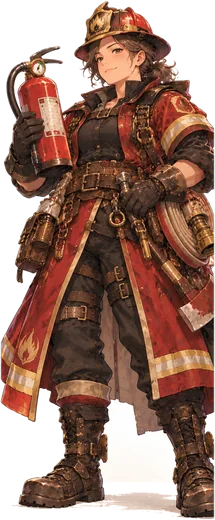
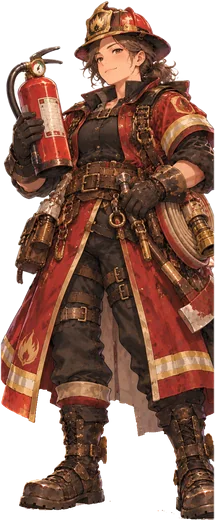
V3.1：穿牆修正（snapFree）、更新 cap.webp、HANDOFF 換成 V3.1
- 卡住時改為 snapFree() 移到最近可走位置，進入場景前也先檢查
- 新增 tools/wall_test.py：舊版 33 點穿牆 24 個，新版 0 個
- cap.webp 更新，RATIO cap=0.414
- 階段 B 資料表草稿（supabase/drafts，尚未套用）

diff --git a/js/game.js b/js/game.js
@@ -167,6 +167,7 @@ function buildScene(){
   if(S.forageDay!==S.day)genForage();
   (S.forage[S.scene]||[]).forEach(f=>{const e=sprite('','',f.x,f.y+14,Math.round(H*.34),1);e.querySelector('img').src=A[PICK[f.t].icon];e.querySelector('img').style.filter='drop-shadow(0 0 6px rgba(255,240,170,.95))';forageEls.push(e);});
   (SIGNS[S.scene]||[]).forEach(g=>{const e=document.createElement('div');e.className='ent signpost';e.style.transform=`translate(${g.x}px,${g.y}px) translate(-50%,-50%)`;e.textContent=g.t();plane.appendChild(e);});
+  snapFree();
   heroEl=sprite('shadow','',S.pos.x,S.pos.y,H,RATIO.hero);heroEl.id='hero';heroImg=heroEl.querySelector('img');heroImg.src=A.hero;
   refresh();fit();
 }
@@ -753,6 +754,8 @@ function free(x,y){const H=sc().heroH,r=H*.12;
   if(!(walkable(x,y)&&walkable(x-r,y)&&walkable(x+r,y)&&walkable(x,y-r*.5)&&walkable(x,y+r*.5)))return false;
   for(const [bx,by,rx] of blockers()){if(((x-bx)/rx)**2+((y-by)/(rx*.5))**2<1)return false;}
   return true;}
+/* 目前位置不可走時，螺旋搜尋最近的可走位置；找不到就回場景入口（避免穿牆） */
+function snapFree(){if(free(S.pos.x,S.pos.y))return;for(let r=8;r<600;r+=8)for(let k=0;k<16;k++){const a=k/16*Math.PI*2,x=S.pos.x+Math.cos(a)*r,y=S.pos.y+Math.sin(a)*r;if(x>10&&y>10&&x<MW-10&&y<MH-10&&free(x,y)){S.pos={x,y};return;}}const sp=sc().spawn;if(sp)S.pos={x:sp[0],y:sp[1]};}
 const input={jx:0,jy:0,keys:{},pad:{}};
 function stopInput(){input.jx=input.jy=0;input.pad={};input.keys={};resetKnob();if(walking){walking=false;heroEl&&heroEl.classList.remove('walking');}}
 function inputVec(){let x=input.jx,y=input.jy;const k=input.keys,p=input.pad;
@@ -764,7 +767,7 @@ function loop(t){const dt=Math.min(.05,(t-last)/1000||0);last=t;
     const [vx,vy]=inputVec();
     if(Math.hypot(vx,vy)>.12){const sp=sc().heroH*1.8*speedMul();
       const nx=S.pos.x+vx*sp*dt,ny=S.pos.y+vy*sp*dt;
-      if(!free(S.pos.x,S.pos.y)){S.pos.x=Math.max(20,Math.min(MW-20,nx));S.pos.y=Math.max(20,Math.min(MH-20,ny));}
+      if(!free(S.pos.x,S.pos.y)){snapFree();}
       else{const dx=nx-S.pos.x,dy=ny-S.pos.y;
         if(free(nx,S.pos.y))S.pos.x=nx;
         else if(Math.abs(dx)>Math.abs(dy)*.3){for(const m of [1,2,3,-1,-2,-3]){const sy=m*Math.abs(dx);if(free(nx,S.pos.y+sy)){S.pos.x=nx;S.pos.y+=sy;break;}}}

diff --git a/tools/wall_test.py b/tools/wall_test.py
@@ -1,0 +1,47 @@
+"""穿牆測試：把主角放在「不可走」的位置（牆、屋頂），按住方向鍵一秒，確認最後停在可走的格子上。
+用法：python3 tools/wall_test.py http://localhost:8765/index.html
+舊版（自由移動的脫困邏輯）會失敗，新版（snapFree）應全部通過。"""
+import asyncio, json, os, random, sys
+from playwright.async_api import async_playwright
+
+ROOT = os.path.dirname(os.path.dirname(os.path.abspath(__file__)))
+WALKS = json.load(open(os.path.join(ROOT, 'data/walks.json')))
+CELL = 8
+
+def blocked_points(rows, n=3):
+    rnd = random.Random(7); H, W = len(rows), len(rows[0]); out = []
+    while len(out) < n:
+        x, y = rnd.randrange(W), rnd.randrange(H)
+        if rows[y][x] != '1':
+            out.append((x * CELL + 4, y * CELL + 4))
+    return out
+
+async def main(url):
+    bad = 0; total = 0
+    async with async_playwright() as p:
+        b = await p.chromium.launch()
+        for sid, rows in WALKS.items():
+            for (x, y) in blocked_points(rows):
+                ctx = await b.new_context(viewport={'width': 1180, 'height': 820})
+                await ctx.add_init_script("localStorage.setItem('fa-debug','1')")
+                page = await ctx.new_page()
+                await page.goto(url + '#debug')
+                await page.wait_for_function("window.__fa && !document.getElementById('btnStart').disabled", timeout=60000)
+                await page.evaluate(f"""() => {{ const S = window.__fa.S; S.step = 10; S.f.p3 = true; S.scene = {json.dumps(sid)};
+                  S.pos = {{x: {x}, y: {y}}}; S.started = true; document.getElementById('btnStart').click(); }}""")
+                await page.wait_for_timeout(500)
+                await page.keyboard.down('ArrowRight'); await page.keyboard.down('ArrowDown')
+                await page.wait_for_timeout(1000)
+                await page.keyboard.up('ArrowRight'); await page.keyboard.up('ArrowDown')
+                pos = await page.evaluate("() => ({scene: window.__fa.S.scene, x: window.__fa.S.pos.x, y: window.__fa.S.pos.y})")
+                r = WALKS.get(pos['scene'])
+                ok = pos['scene'] != sid or (r[int(pos['y'] // CELL)][int(pos['x'] // CELL)] == '1')
+                total += 1; bad += 0 if ok else 1
+                if not ok: print('✗', sid, '起點', (x, y), '→', pos)
+                await ctx.close()
+        await b.close()
+    print(f'{total} 個測試點，穿牆 {bad} 個')
+    return bad
+
+if __name__ == '__main__':
+    sys.exit(1 if asyncio.run(main(sys.argv[1] if len(sys.argv) > 1 else 'http://localhost:8765/index.html')) else 0)

diff --git a/AGENTS.md b/AGENTS.md
@@ -21,6 +21,8 @@
 - 已用 V3 圖片覆蓋 hero、grandpa、grandpa_face、home（綠底白十字），並加入 V3 新素材 39 張（第二章、傷口圖 w_*）。`w_cut_arm.webp` 依 V3 文件不使用，未加入。
 - `assets/manifest.json` 仍是舊的 55 張清單（啟動時預載用）。新功能合併、實際用到新圖時，再跑 `python3 tools/gen_manifest.py`，不要預載沒用到的圖。
 - `reference/` 已從 repo 移除（含舊紅十字圖）。舊圖仍留在 git 歷史；如需徹底清除要改寫歷史，這要先問老師。
+- V3.1 已處理：穿牆修正（`snapFree()`，`tools/wall_test.py` 驗證：舊版 33 個測試點穿牆 24 個，新版 0 個）、cap.webp 更新（RATIO cap=0.414）。V3.1 第 3～5 節（旅館二樓遮罩、設備檢查點、砂輪機任務）屬第二章內容，隨階段 D 合併；對照用原型在 `~/Projects/first-aid-kingdom-v3-spec/v3.1/`。
+- 階段 B 資料表 SQL 草稿在 `supabase/drafts/001_fa_tables.sql`。**尚未套用到 Supabase**：老師已同意內容，但套用指令被權限分類器擋下，需老師自行授權或在 Supabase SQL 編輯器貼上執行。套用前不要寫依賴這些表的程式邏輯以外的上線動作。
 - **尚未合併 V3 新功能**：V3 原型在本機 `~/Projects/first-aid-kingdom-v3-spec/`（src、content、reference/prototype-latest-DO-NOT-COMMIT.html）。不要用它的 src 覆蓋現有程式，把它當規格逐項合併進目前結構。
 - 下一步：階段 B（Google 登入＋雲端存檔），摘要待老師確認。
 
